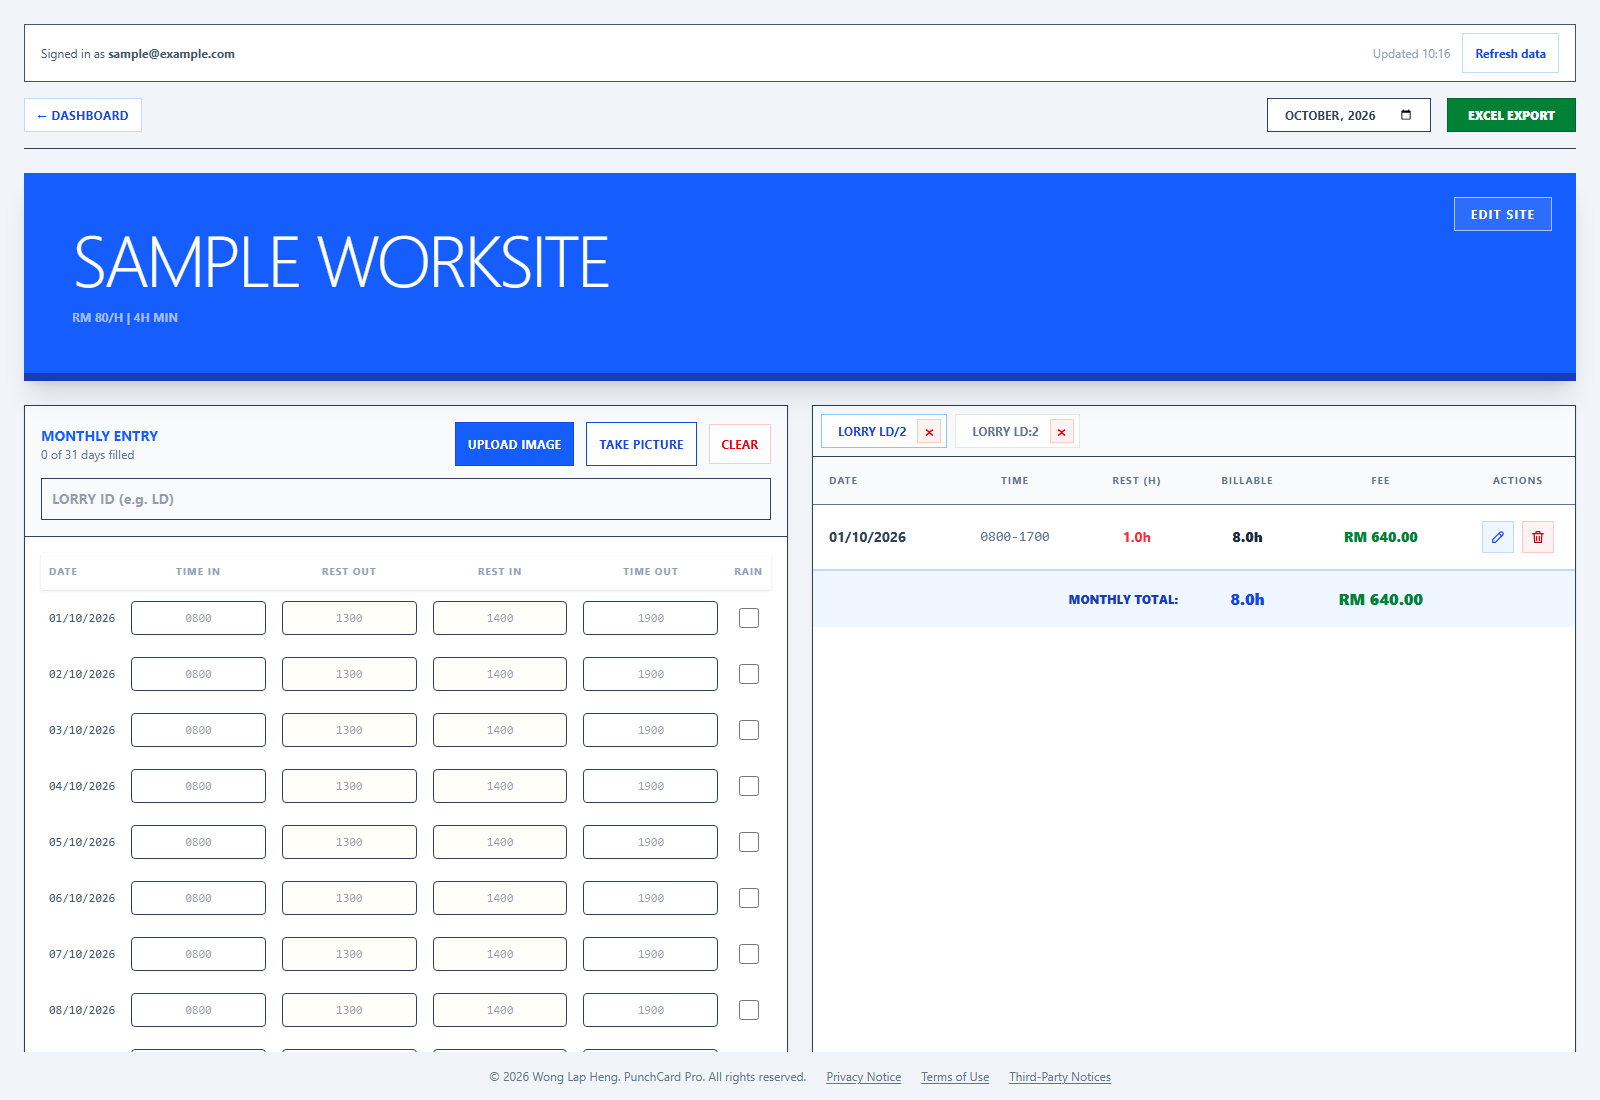
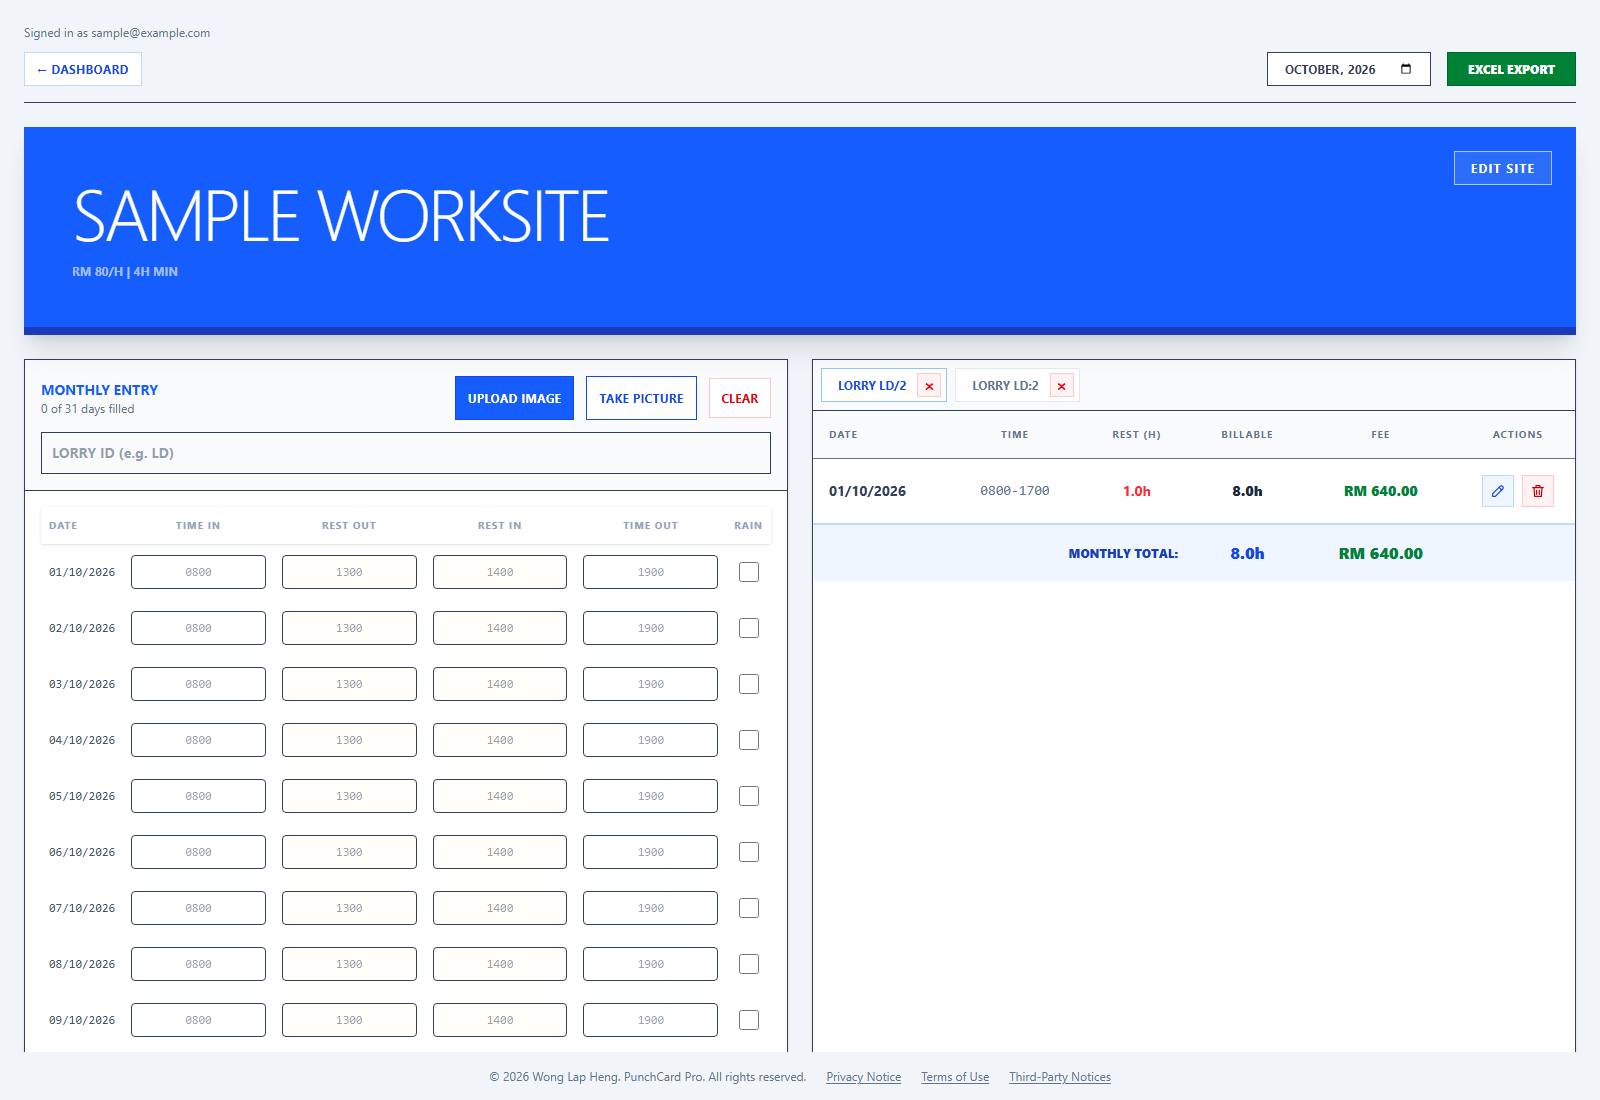
fix: simplify refresh and clarify local sandbox accounts

diff --git a/src/App.jsx b/src/App.jsx
@@ -221,9 +221,7 @@ function App() {
   const [scanError, setScanError] = useState('');
   const [scanNotice, setScanNotice] = useState('');
   const [isLoading, setIsLoading] = useState(true);
-  const [isRefreshing, setIsRefreshing] = useState(false);
   const [syncError, setSyncError] = useState('');
-  const [lastSyncedAt, setLastSyncedAt] = useState(null);
   const [exportError, setExportError] = useState('');
   const [exportDownload, setExportDownload] = useState(null);
   const fileInputRef = useRef(null);
@@ -267,7 +265,6 @@ function App() {
     }
     refreshInFlightRef.current = userId;
     if (initial) setIsLoading(true);
-    else setIsRefreshing(true);
 
     try {
       const { data: wpRows, error: wpErr } = await supabase
@@ -303,19 +300,17 @@ function App() {
         entries: entriesByWorkplace.get(wp.id),
       })));
       setSyncError('');
-      setLastSyncedAt(new Date());
       return true;
     } catch (error) {
       console.error('Supabase load error', error);
       if (currentUserIdRef.current === userId) {
-        setSyncError('Could not refresh saved data. Check your connection and try Refresh.');
+        setSyncError('Could not load saved data. Check your connection and reload the page.');
       }
       return false;
     } finally {
       if (refreshInFlightRef.current === userId) {
         refreshInFlightRef.current = null;
         setIsLoading(false);
-        setIsRefreshing(false);
         if (refreshQueuedRef.current && currentUserIdRef.current === userId) {
           refreshQueuedRef.current = false;
           queueMicrotask(() => loadData());
@@ -330,19 +325,6 @@ function App() {
       return;
     }
     loadData({ initial: true });
-    const refreshWhenVisible = () => {
-      if (document.visibilityState === 'visible') loadData();
-    };
-    const interval = window.setInterval(refreshWhenVisible, 30000);
-    window.addEventListener('focus', refreshWhenVisible);
-    window.addEventListener('online', refreshWhenVisible);
-    document.addEventListener('visibilitychange', refreshWhenVisible);
-    return () => {
-      window.clearInterval(interval);
-      window.removeEventListener('focus', refreshWhenVisible);
-      window.removeEventListener('online', refreshWhenVisible);
-      document.removeEventListener('visibilitychange', refreshWhenVisible);
-    };
   }, [session?.user?.id, loadData]);
 
 
@@ -1051,7 +1033,7 @@ function App() {
 
   // Analytics page renders outside the main container so it controls its own layout
   if (view === 'analytics') {
-    return <Analytics workplaces={workplaces} onBack={() => setView('home')} onRefresh={loadData} isRefreshing={isRefreshing} syncError={syncError} />;
+    return <Analytics workplaces={workplaces} onBack={() => setView('home')} syncError={syncError} />;
   }
 
   if (isLoading) {
@@ -1065,15 +1047,7 @@ function App() {
   return (
     <div className="min-h-screen flex flex-col bg-slate-100 p-3 pb-28 md:p-6 md:pb-16 font-sans text-slate-700">
       <div className="w-full max-w-[1800px] flex-1 mx-auto">
-        <div className="mb-4 flex flex-wrap items-center justify-between gap-2 border bg-white px-3 py-2 text-xs text-slate-600 sm:px-4">
-          <span className="min-w-0 truncate">Signed in as <strong>{session.user.email}</strong></span>
-          <div className="flex items-center gap-3">
-            {lastSyncedAt && <span className="text-slate-400">Updated {lastSyncedAt.toLocaleTimeString([], { hour: '2-digit', minute: '2-digit' })}</span>}
-            <button type="button" onClick={() => loadData()} disabled={isRefreshing} className="min-h-10 border border-blue-200 px-3 font-bold text-blue-700 hover:bg-blue-50 disabled:opacity-50">
-              {isRefreshing ? 'Refreshing…' : 'Refresh data'}
-            </button>
-          </div>
-        </div>
+        <p className="mb-3 truncate text-xs text-slate-500">Signed in as {session.user.email}</p>
         {syncError && <p role="alert" className="mb-4 border border-red-200 bg-red-50 px-3 py-2 text-sm text-red-700">{syncError}</p>}
 
         {/* MODAL: New Site */}

diff --git a/src/Analytics.jsx b/src/Analytics.jsx
@@ -120,7 +120,7 @@ function DonutChart({ data, centerValue, centerLabel, height = 220 }) {
 }
 
 // ── Main component ────────────────────────────────────────────
-function Analytics({ workplaces, onBack, onRefresh, isRefreshing, syncError }) {
+function Analytics({ workplaces, onBack, syncError }) {
   const today = new Date();
   const defaultTo   = today.toISOString().substring(0, 7);
   // Present the current year-to-date by default. This keeps the Jan-Jun
@@ -225,7 +225,6 @@ function Analytics({ workplaces, onBack, onRefresh, isRefreshing, syncError }) {
           ← Dashboard
         </button>
         <h2 className="order-first w-full text-xl font-black uppercase tracking-tighter sm:order-none sm:w-auto">Analytics</h2>
-        <button type="button" onClick={() => onRefresh()} disabled={isRefreshing} className="min-h-10 border border-slate-600 bg-slate-800 px-3 py-2 text-xs font-bold text-white disabled:opacity-50">{isRefreshing ? 'Refreshing…' : 'Refresh data'}</button>
       </div>
 
       <div className="max-w-7xl mx-auto p-4 md:p-8 space-y-6">

diff --git a/src/Login.jsx b/src/Login.jsx
@@ -160,6 +160,8 @@ function Login() {
           </p>
         </div>
 
+        {isLocalSupabase && <p className="mb-5 rounded border border-amber-200 bg-amber-50 p-3 text-sm text-amber-900">Local test mode uses separate accounts. Create a test account here and verify it with <strong>123321</strong>. Your production account and data are separate.</p>}
+
         <form onSubmit={handleSubmit} className="space-y-5">
           <div>
             <label htmlFor="auth-email" className="text-[10px] font-bold uppercase text-slate-400 block mb-1">Email</label>

diff --git a/docs/fix-export-auth-layout.md b/docs/fix-export-auth-layout.md
@@ -42,6 +42,10 @@ The fix sanitizes/truncates sheet names and resolves collisions without changing
 
 Local sandbox Auth is isolated from production. Its code is always **123321**. The server enables this only when its Supabase URL is local HTTP (`localhost`, `127.0.0.1`, or local Docker `kong`); a request or frontend flag cannot enable it on hosted Supabase.
 
+Production credentials do not sign in to the local database. Create a separate local test account first; the sign-in screen explains this in local mode.
+
+Saved data is fetched on sign-in/page reload and after local saves. The Refresh data controls, update timestamp, interval polling, and focus/visibility/online refresh listeners have been removed. To see another device's latest saved data, reload the page. A small account label remains to identify the signed-in account.
+
 With Docker Desktop running:
 
 ```powershell
@@ -70,6 +74,7 @@ Verified on this branch:
 - Real local SQL checks passed for five-minute expiry, three guesses, reuse, resend invalidation, the five-code cooldown, IP cap, and table/RPC privileges.
 - Real local Auth checks passed for signup after two mistakes, three concurrent wrong guesses exhausting a code, no unverified account, no direct native signup bypass, recovery, old-password rejection, new-password sign-in, and revocation of the old refresh session.
 - A phone browser registered using `123321` and signed in to the actual local app with no auth mocks.
+- A browser check confirmed page reload reads newly saved remote entries, while focus/online/visibility events and 31 seconds of elapsed time do not fetch data. Refresh controls are absent.
 
 Real production SMTP delivery remains a rollout verification item. Local Auth ran v2.188.1 while hosted Auth reported v2.197.0; check the deployed Auth configuration and real email flow during rollout.
 
